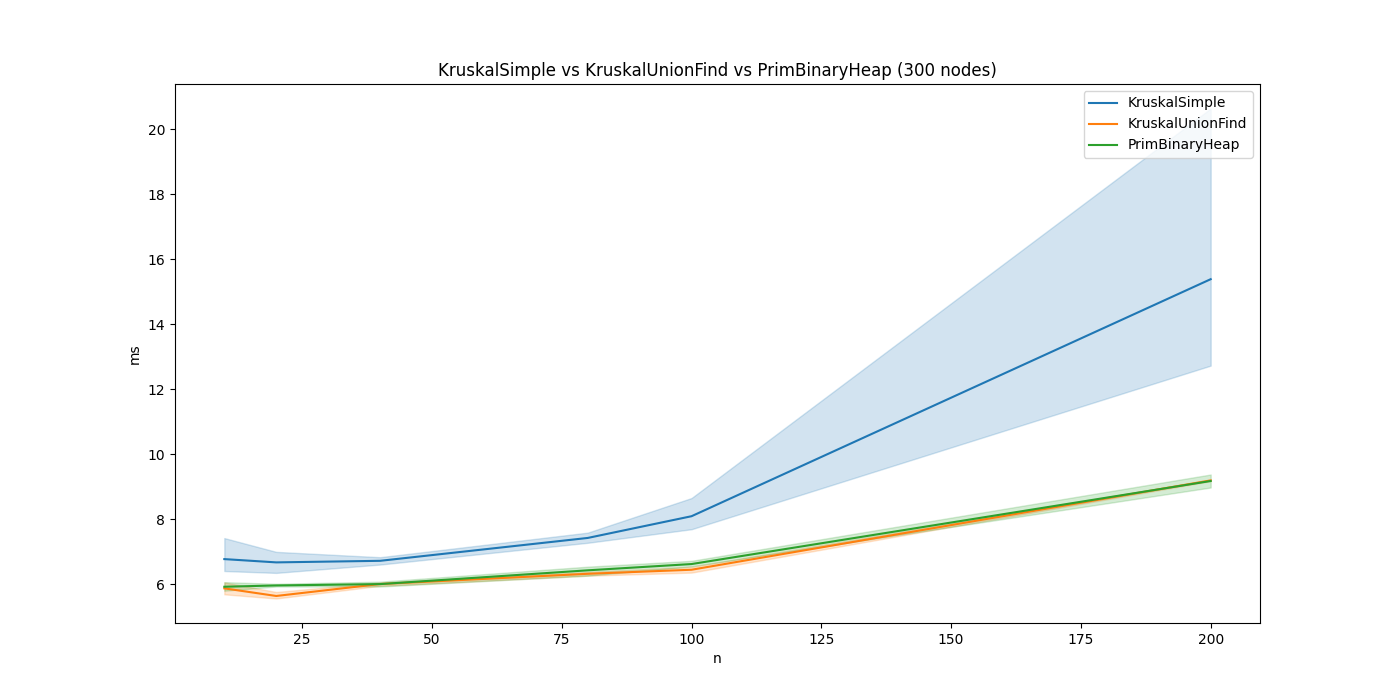
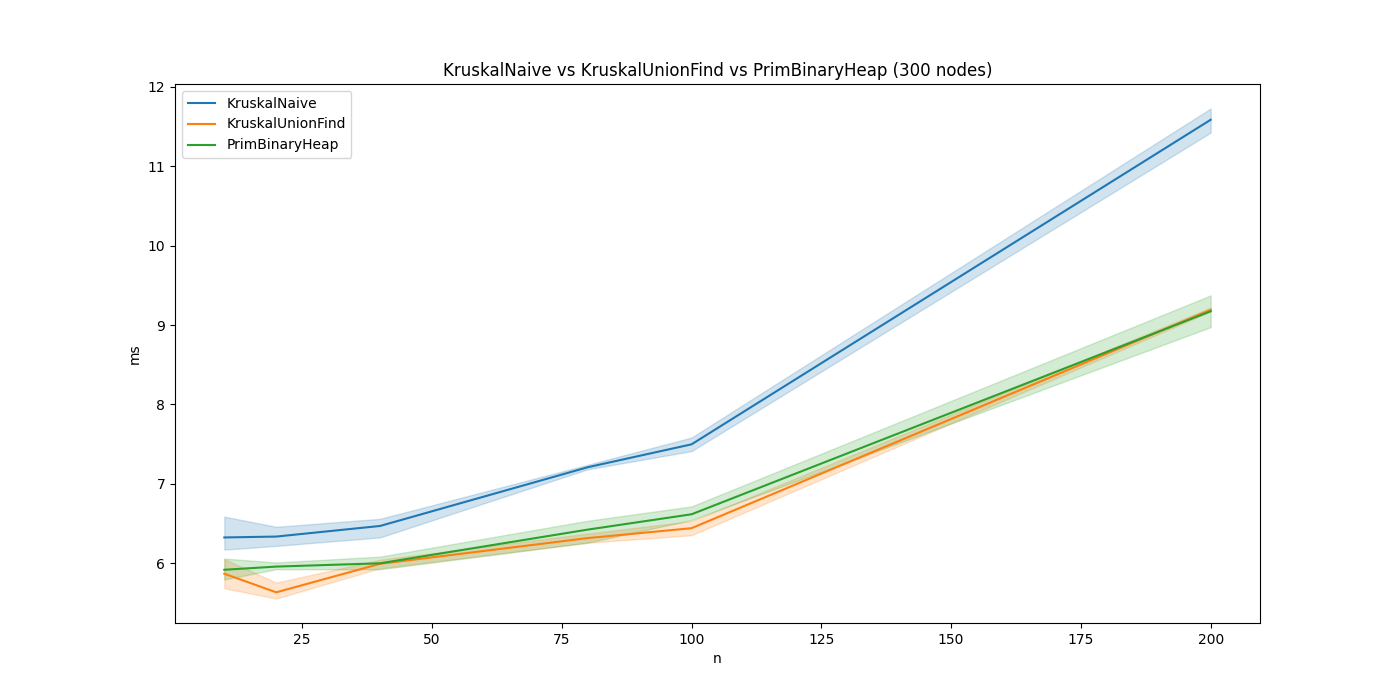
Added plots from new benchmarks

diff --git a/benchmark/analysis.py b/benchmark/analysis.py
@@ -1,6 +1,6 @@
 """
 Usage:
-> python3 analysis.py [--latex] [--plot [main, table, other]] [--tables] [--save-plot]
+> python3 analysis.py [--latex] [--plot] [--tables] [--save-plot]
 
 The following script analyzes benchmarks for KruskalNaive, KruskalUnionFind (and variants) and
 PrimBinaryHeap algorithms.
@@ -44,9 +44,6 @@ FOR_LATEX = '--latex' in sys.argv
 IS_TABLE_ENABLED = '--tables' in sys.argv
 # if the script is given the argument '--plot', turn on comparison plots (with options)
 IS_PLOT_ENABLED = '--plot' in sys.argv
-IS_PLOT_MAIN_ENABLED = 'main' in sys.argv
-IS_PLOT_TABLE_ENABLED = 'table' in sys.argv
-IS_PLOT_OTHER_ENABLED = 'other' in sys.argv
 # if the script is given the argument '--save-plot', save plots to folder.
 IS_SAVE_PLOT_ENABLED = '--save-plot' in sys.argv
 
@@ -499,52 +496,21 @@ if __name__ == '__main__':
     # export_dataframes_min_to_latex(dataframes_min)
 
     if IS_PLOT_ENABLED:
+    
+        # OK (the tree)
+        split_and_plot([KRUSKAL_NAIVE, KRUSKAL_UNION_FIND, PRIM_BINARY_HEAP], dataframes_min, pred=lambda x: x['n'] <= 300, title=f'{names_to_vs([KRUSKAL_NAIVE, KRUSKAL_UNION_FIND, PRIM_BINARY_HEAP])} (300 nodes)')
+        split_and_plot([KRUSKAL_NAIVE, KRUSKAL_UNION_FIND, PRIM_BINARY_HEAP], dataframes_min, pred=lambda x: x['n'] <= 1000, title=f'{names_to_vs([KRUSKAL_NAIVE, KRUSKAL_UNION_FIND, PRIM_BINARY_HEAP])} (1k nodes)')
+        split_and_plot([KRUSKAL_NAIVE, KRUSKAL_UNION_FIND, PRIM_BINARY_HEAP], dataframes_min, pred=lambda x: x['n'] <= 2000, title=f'{names_to_vs([KRUSKAL_NAIVE, KRUSKAL_UNION_FIND, PRIM_BINARY_HEAP])} (2k nodes)')
+        split_and_plot([KRUSKAL_NAIVE, KRUSKAL_UNION_FIND, PRIM_BINARY_HEAP], dataframes_min, pred=lambda x: True, title=f'{names_to_vs([KRUSKAL_NAIVE, KRUSKAL_UNION_FIND, PRIM_BINARY_HEAP])} (100k nodes)')
 
+        # OK (the two)
+        split_and_plot([KRUSKAL_UNION_FIND, PRIM_BINARY_HEAP], dataframes_min, pred=lambda x: x['n'] <= 5000, title=f'{names_to_vs([KRUSKAL_UNION_FIND, PRIM_BINARY_HEAP])} (5k nodes)')
+        split_and_plot([KRUSKAL_UNION_FIND, PRIM_BINARY_HEAP], dataframes_min, pred=lambda x: x['n'] <= 20000, title=f'{names_to_vs([KRUSKAL_UNION_FIND, PRIM_BINARY_HEAP])} (20k nodes)')
 
-        if IS_PLOT_OTHER_ENABLED:
-            # OK (the tree)
-            split_and_plot([KRUSKAL_NAIVE, KRUSKAL_UNION_FIND, PRIM_BINARY_HEAP], dataframes_min, pred=lambda x: x['n'] <= 300, title=f'{names_to_vs([KRUSKAL_NAIVE, KRUSKAL_UNION_FIND, PRIM_BINARY_HEAP])} (300 nodes)')
-            split_and_plot([KRUSKAL_NAIVE, KRUSKAL_UNION_FIND, PRIM_BINARY_HEAP], dataframes_min, pred=lambda x: x['n'] <= 1000, title=f'{names_to_vs([KRUSKAL_NAIVE, KRUSKAL_UNION_FIND, PRIM_BINARY_HEAP])} (1k nodes)')
-            split_and_plot([KRUSKAL_NAIVE, KRUSKAL_UNION_FIND, PRIM_BINARY_HEAP], dataframes_min, pred=lambda x: x['n'] <= 2000, title=f'{names_to_vs([KRUSKAL_NAIVE, KRUSKAL_UNION_FIND, PRIM_BINARY_HEAP])} (2k nodes)')
-            split_and_plot([KRUSKAL_NAIVE, KRUSKAL_UNION_FIND, PRIM_BINARY_HEAP], dataframes_min, pred=lambda x: True, title=f'{names_to_vs([KRUSKAL_NAIVE, KRUSKAL_UNION_FIND, PRIM_BINARY_HEAP])} (100k nodes)')
+        # OK (prim bin heap / k-ary heap)
+        split_and_plot([PRIM_BINARY_HEAP, PRIM_K_HEAP], dataframes_min, pred=lambda x: x['n'] <= 500, title=f'{names_to_vs([PRIM_BINARY_HEAP, PRIM_K_HEAP])} (500 nodes)')
+        split_and_plot([PRIM_BINARY_HEAP, PRIM_K_HEAP], dataframes_min, pred=lambda x: x['n'] >= 2000 and x['n'] <= 4000, title=f'{names_to_vs([PRIM_BINARY_HEAP, PRIM_K_HEAP])} (nodes between 2k and 4k)')
+        split_and_plot([PRIM_BINARY_HEAP, PRIM_K_HEAP], dataframes_min, pred=lambda x: x['n'] >= 80000, title=f'{names_to_vs([PRIM_BINARY_HEAP, PRIM_K_HEAP])} (nodes between 80k and 100k)')
 
-            # OK (the two)
-            split_and_plot([KRUSKAL_UNION_FIND, PRIM_BINARY_HEAP], dataframes_min, pred=lambda x: x['n'] <= 5000, title=f'{names_to_vs([KRUSKAL_UNION_FIND, PRIM_BINARY_HEAP])} (5k nodes)')
-            split_and_plot([KRUSKAL_UNION_FIND, PRIM_BINARY_HEAP], dataframes_min, pred=lambda x: x['n'] <= 20000, title=f'{names_to_vs([KRUSKAL_UNION_FIND, PRIM_BINARY_HEAP])} (20k nodes)')
-
-            # OK (prim bin heap / k-ary heap)
-            split_and_plot([PRIM_BINARY_HEAP, PRIM_K_HEAP], dataframes_min, pred=lambda x: x['n'] <= 500, title=f'{names_to_vs([PRIM_BINARY_HEAP, PRIM_K_HEAP])} (500 nodes)')
-            split_and_plot([PRIM_BINARY_HEAP, PRIM_K_HEAP], dataframes_min, pred=lambda x: x['n'] >= 2000 and x['n'] <= 4000, title=f'{names_to_vs([PRIM_BINARY_HEAP, PRIM_K_HEAP])} (nodes between 2k and 4k)')
-            split_and_plot([PRIM_BINARY_HEAP, PRIM_K_HEAP], dataframes_min, pred=lambda x: x['n'] >= 80000, title=f'{names_to_vs([PRIM_BINARY_HEAP, PRIM_K_HEAP])} (nodes between 80k and 100k)')
-
-            # OK (KruskalUnionFind, KruskalUnionFind w/ path compression)
-            split_and_plot([KRUSKAL_UNION_FIND, KRUSKAL_UNION_FIND_COMPRESSED], dataframes_min, pred=lambda x: x['n'] >= 80000, title=f'{names_to_vs([KRUSKAL_UNION_FIND, KRUSKAL_UNION_FIND_COMPRESSED])} (nodes between 80k and 100k)')
-
-
-        if IS_PLOT_MAIN_ENABLED:
-            names_to_plot(programs, dataframes_min)   # all
-            names_to_plot_logy(programs, dataframes_min)  # all logy
-            names_to_plot([p for p in programs if p != KRUSKAL_NAIVE], dataframes_min)  # all but naive
-            names_to_plot([KRUSKAL_NAIVE, KRUSKAL_UNION_FIND, PRIM_BINARY_HEAP], dataframes_min)  # the three
-            names_to_plot_logy([KRUSKAL_NAIVE, KRUSKAL_UNION_FIND, PRIM_BINARY_HEAP], dataframes_min)  # the three logy
-            names_to_plot([KRUSKAL_UNION_FIND, PRIM_BINARY_HEAP], dataframes_min)  # the two
-            names_to_plot([KRUSKAL_UNION_FIND, KRUSKAL_UNION_FIND_COMPRESSED], dataframes_min)  # kruskal versions
-            names_to_plot([PRIM_BINARY_HEAP, PRIM_K_HEAP], dataframes_min)  # prim versions
-            names_to_plot([PRIM_BINARY_HEAP, PRIM_K_HEAP], dataframes_min)  # prim2 vs primK
-
-        if IS_PLOT_TABLE_ENABLED:
-            names_to_plot_logy([KRUSKAL_NAIVE, KRUSKAL_UNION_FIND], dataframes_min)
-            names_to_plot_logy([KRUSKAL_NAIVE, KRUSKAL_UNION_FIND_COMPRESSED], dataframes_min)
-            names_to_plot_logy([KRUSKAL_NAIVE, PRIM_BINARY_HEAP], dataframes_min)
-            names_to_plot([KRUSKAL_UNION_FIND, KRUSKAL_UNION_FIND_COMPRESSED], dataframes_min)
-            names_to_plot_logy([KRUSKAL_NAIVE, KRUSKAL_UNION_FIND], dataframes_min)
-            names_to_plot_logy([KRUSKAL_NAIVE, KRUSKAL_UNION_FIND_COMPRESSED], dataframes_min)
-            names_to_plot([PRIM_BINARY_HEAP, KRUSKAL_UNION_FIND], dataframes_min)
-            names_to_plot([PRIM_BINARY_HEAP, KRUSKAL_UNION_FIND_COMPRESSED], dataframes_min)
-            names_to_plot([PRIM_BINARY_HEAP, PRIM_K_HEAP], dataframes_min)
-            names_to_plot([PRIM_K_HEAP, KRUSKAL_UNION_FIND], dataframes_min)
-            names_to_plot([PRIM_K_HEAP, KRUSKAL_UNION_FIND_COMPRESSED], dataframes_min)
-
-    # plot_simple_bar(dataframes_min[KRUSKAL_NAIVE], x='ms', y='n', title='Kruskal Simple')
-    # plot_interesting_nodes_bar(dataframes_min[KRUSKAL_NAIVE].round(1), title='Kruskal Simple')
-    # plot_multiple_nodes_line(dataframes_min, title='Plot multiple', max_nodes=1000)
+        # OK (KruskalUnionFind, KruskalUnionFind w/ path compression)
+        split_and_plot([KRUSKAL_UNION_FIND, KRUSKAL_UNION_FIND_COMPRESSED], dataframes_min, pred=lambda x: x['n'] >= 80000, title=f'{names_to_vs([KRUSKAL_UNION_FIND, KRUSKAL_UNION_FIND_COMPRESSED])} (nodes between 80k and 100k)')

diff --git a/report/chapters/8-extensions-and-originalities.tex b/report/chapters/8-extensions-and-originalities.tex
@@ -19,8 +19,10 @@ Da \ref{fig:Prim2vsPrim4-500} e \ref{fig:Prim2vsPrim4-2k-4k} si nota
 un lieve miglioramento delle performance utilizzando K-ary Heap,
 anche se questo comporta più oscillazione dei tempi rispetto a input
 differenti. La figura \ref{fig:Prim2vsPrim4-80k-100k} invece mostra
-una controtendenza tale per cui su input molto grandi il binary heap
-tende a fare lievemente meglio del K-ary Heap.
+una controtendenza su taglie dell'input intorno agli 80k nodi, dove
+PrimKHeap non riesce a migliorare le performance rispetto a 
+PrimBinaryHeap. Dal grafico però si nota un'oscillazione che copre
+non ci permette di asserire con certezza quale dei due sia il migliore.
 
 \begin{figure}[H]
     \centering
